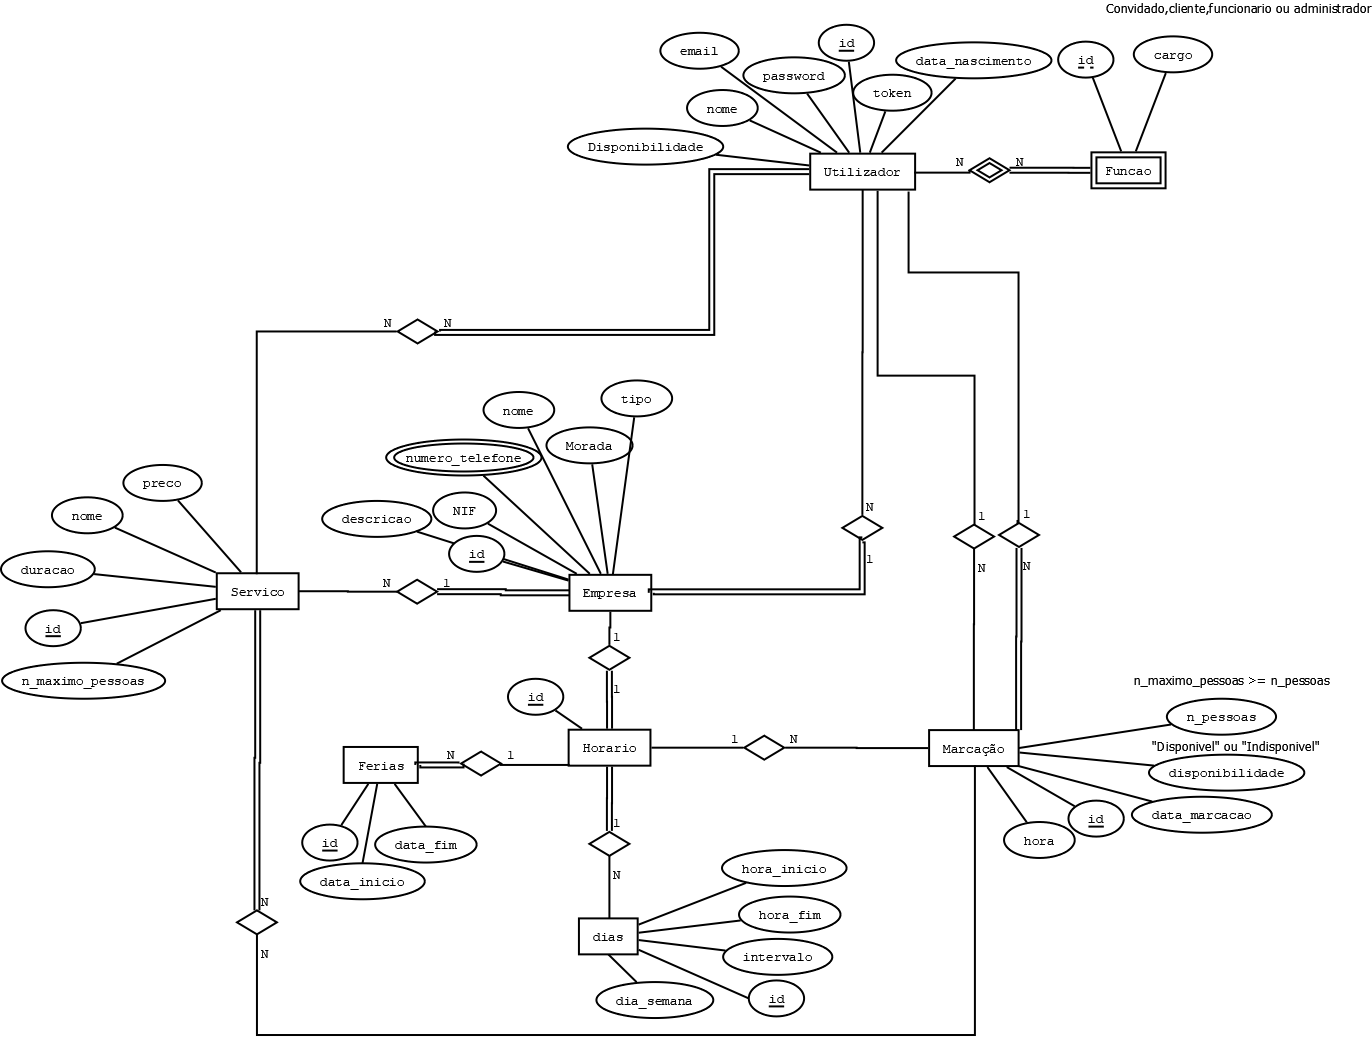
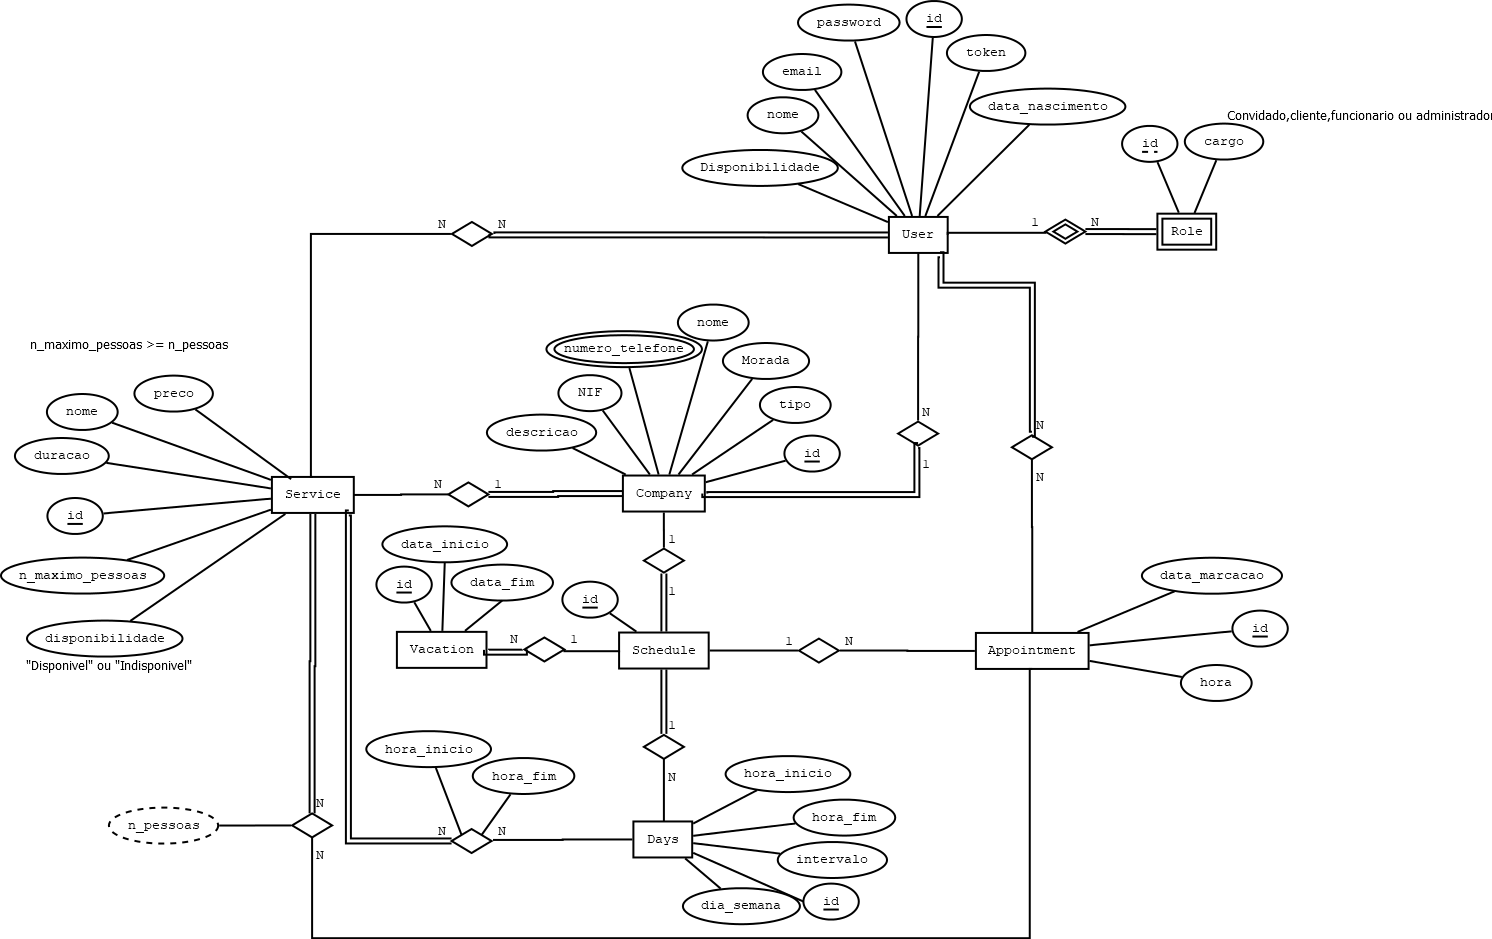
Changing data base logic and repositories

Changed region(s): [[0.0, 0.0, 1.0, 1.0], [0.0306, 0.3397, 0.0918, 0.3706], [0.1224, 0.3397, 0.1531, 0.3706]]

diff --git a/src/main/kotlin/backend/jvm/services/AppointmentServices.kt b/src/main/kotlin/backend/jvm/services/AppointmentServices.kt
@@ -67,16 +67,17 @@ class AppointmentServices {
         val getService = services.id?.let { servicesRepository.getServicesById(it) }
             ?: throw Exception("Service does not exists")
 
-        if(getAppointment.numberAppPeople == getService.numberMax){
+       /* if(getAppointment.numberAppPeople == getService.numberMax){
             return appointmentRepository.editAvailability(appointment.id!!,"unavailable")
-        }
+        }*/
         return appointment
     }
 
-    fun addAppointment(appointment: Appointment): Int {
-        val existingAppointment = appointmentRepository.findByAppDateAndAppHourAndSid(appointment.appDate!!, appointment.appHour, appointment.sid!!.id!!)
-        if (existingAppointment != null) {
-            appointment.numberAppPeople = existingAppointment.numberAppPeople!!.plus(1)
+    fun addAppointment(appointment: Appointment): Appointment {
+      //  val existingAppointment = appointmentRepository.findAllByAppDateAndAppHourAndSid(appointment.appDate!!, appointment.appHour, appointment.sid!!)?.lastOrNull()
+      /*  if (existingAppointment != null) {
+            println(existingAppointment.numberAppPeople)
+            appointment.numberAppPeople = existingAppointment.numberAppPeople?.plus(1)
         }
         val savedAppointment = appointmentRepository.save(appointment)
       /*  if (savedAppointment.number_app_people == max_number) {
@@ -85,13 +86,17 @@ class AppointmentServices {
         return savedAppointment.id!!
     }
 
+    fun getServices(id: Int){
+        appointmentRepository.getServices(id)
+    }
+
     fun deleteAppointment(id: Int): Boolean{
         appointmentRepository.deleteById(id)
         return true
     }
 
     fun increaseNumberOfPeopleApp(id:Int,maxNumber:Int){
-        require(id>0&&maxNumber>0)
+        require(id>0 && maxNumber>0)
         appointmentRepository.increaseAppointmentNumber(id,maxNumber)
     }
 

diff --git a/src/main/kotlin/backend/jvm/model/Appointment.kt b/src/main/kotlin/backend/jvm/model/Appointment.kt
@@ -10,11 +10,9 @@ import java.util.Date
  * Appointment entity
  *
  * @property id the appointment primary key
- * @property appNumberPeople represents the number of people scheduled for that appointment hour
  * @property appHour hour of the appointment
- * @property availability 'unavailable' if the max number of people have already scheduled
  * @property sid schedule associated with appointment
- * @property cid company associated with appointment
+ * @property uid company associated with appointment
  *
  */
 
@@ -28,19 +26,16 @@ class Appointment {
     @Column(name = "id")
     var id: Int? = null
 
-    @Column(name = "number_app_people", nullable = false)
-    var numberAppPeople: Int? = 0
-
-    @Column(name = "availability")
-    val availability : String
-
+   /* @Column(name = "number_app_people")
+    @GeneratedValue
+    var numberAppPeople: Int? = 1
+*/
     @Column(name = "app_hour")
     val appHour : Time
 
     @Column(name = "app_date")
     @Temporal(TemporalType.DATE)
     val appDate: Date?
-
 
     @ManyToOne
     @JoinColumn(name = "sid")  // nome da foreign key
@@ -55,19 +50,15 @@ class Appointment {
 
     constructor() {
         this.id = null
-        this.numberAppPeople = 0
         this.appHour = Time.valueOf("00:00:00")
-        this.availability = "unavailable"
         this.appDate = null
-        this.uid = null
         this.sid = null
+        this.uid = null
         this.services = null
     }
 
-    constructor(numberAppPeople: Int, appHour: Time, availability: String, appDate : Date, sid: Schedule, uid: User, services: List<Services>) {
-        this.numberAppPeople = numberAppPeople
+    constructor(appHour: Time, appDate : Date, sid: Schedule?, uid: User?, services: List<Services>?) {
         this.appHour = appHour
-        this.availability = availability
         this.appDate = appDate
         this.sid = sid
         this.uid = uid

diff --git a/src/main/kotlin/backend/jvm/controllers/AppointmentController.kt b/src/main/kotlin/backend/jvm/controllers/AppointmentController.kt
@@ -8,6 +8,7 @@ import org.springframework.web.bind.annotation.GetMapping
 import org.springframework.web.bind.annotation.PathVariable
 import org.springframework.web.bind.annotation.PostMapping
 import org.springframework.web.bind.annotation.PutMapping
+import org.springframework.web.bind.annotation.RequestBody
 import org.springframework.web.bind.annotation.RequestMapping
 import org.springframework.web.bind.annotation.RequestParam
 import org.springframework.web.bind.annotation.RestController
@@ -21,17 +22,17 @@ class AppointmentController {
     lateinit var appointmentServices: AppointmentServices
 
     @PostMapping
-    fun addAppointment(appointment: Appointment): Int{
+    fun addAppointment(@RequestBody appointment: Appointment): Appointment{
         return appointmentServices.addAppointment(appointment)
     }
 
     @DeleteMapping("/{id}")
-    fun deleteAppointment(id: Int): Boolean {
+    fun deleteAppointment(@PathVariable id: Int): Boolean {
         return appointmentServices.deleteAppointment(id)
     }
 
     @GetMapping("/{id}")
-    fun getAppointment(id: Int): Appointment{
+    fun getAppointment(@PathVariable id: Int): Appointment{
         return appointmentServices.getAppointment(id).get()
     }
 
@@ -46,7 +47,7 @@ class AppointmentController {
     }*/
 
     @PutMapping("/{id}/availability")
-    fun changeAvailability(id: Int, @RequestParam availability: String): Appointment {
+    fun changeAvailability(@PathVariable id: Int, @RequestParam availability: String): Appointment {
         return appointmentServices.editAvailability(id, availability)
     }
 

diff --git a/src/main/kotlin/backend/jvm/model/Services.kt b/src/main/kotlin/backend/jvm/model/Services.kt
@@ -9,7 +9,7 @@ import java.sql.Time
 class Services{
 
     @Id
-    @GeneratedValue(strategy = GenerationType.SEQUENCE)
+    @GeneratedValue(strategy = GenerationType.IDENTITY)
     @Column(name = "id")
     var id: Int? = null
 
@@ -36,11 +36,11 @@ class Services{
         joinColumns = [JoinColumn(name = "service_id")],
         inverseJoinColumns = [JoinColumn(name = "appointment_id")]
     )
-    val appointment: List<Appointment>
+    val appointment: List<Appointment>?
 
 
     @ManyToMany(mappedBy = "services")
-    val user: List<User>
+    val user: List<User>?
 
     constructor(){
         this.name = ""
@@ -52,7 +52,7 @@ class Services{
         this.appointment = listOf()
     }
 
-    constructor(name : String, duration: Time, numberMax: Int, price: Double, company: Company, user: List<User>, appointment: List<Appointment>){
+    constructor(name : String, duration: Time, numberMax: Int, price: Double, company: Company, user: List<User>, appointment: List<Appointment>,days: List<Day> ){
         this.name = name
         this.duration = duration
         this.numberMax = numberMax
@@ -60,5 +60,6 @@ class Services{
         this.cid = company
         this.user = user
         this.appointment = appointment
+        this.day = days
     }
 }

diff --git a/src/main/kotlin/backend/jvm/repository/AppointmentRepository.kt b/src/main/kotlin/backend/jvm/repository/AppointmentRepository.kt
@@ -12,8 +12,8 @@ interface AppointmentRepository: JpaRepository<Appointment, Int>{
     /*
     fun findAllByCid (cid: Client) : List<Appointment>
     fun findAllByEid (eid: Employee) : List<Appointment>
-    */
 
+    */
     fun findAllBySid (sid: Schedule) : List<Appointment>
 
     fun findAllByAppHourAndUidAndAppDate (appHour: Time, user: User, appDate: Date): Appointment
@@ -26,6 +26,9 @@ interface AppointmentRepository: JpaRepository<Appointment, Int>{
     fun getCompany(@Param("id") id: Int): Company?
 */
 
+    @Query(value = "select service_id from service_appointment where appointment_id=:id", nativeQuery = true)
+    fun getServices(@Param("id") id:Int):List<Services>
+
     @Query(value =  "update appointment set number_app_people = :numberAppPeople where id = :id", nativeQuery = true)
     fun editNumberAppPeople(@Param("id") id: Int, @Param("numberAppPeople") numberAppPeople: Int): Appointment
 
@@ -37,6 +40,5 @@ interface AppointmentRepository: JpaRepository<Appointment, Int>{
 
     @Query(value = "from appointment a where a.availability='available' and a.date=:date", nativeQuery = true)
     fun getAvailableAppointmentByDate(@Param("date") date: Date): Appointment
-
 
 }

diff --git a/src/main/kotlin/backend/jvm/repository/UserRepository.kt b/src/main/kotlin/backend/jvm/repository/UserRepository.kt
@@ -10,13 +10,13 @@ import org.springframework.data.repository.query.Param
 
 interface UserRepository: JpaRepository<User, Int> {
 
-    // fun getUsersByCompId (compId: Company): User
+     fun getUsersByCompId (compId: Company): User
 
-     //fun getUsersByServices (service: List<Services>): List<User>
+    /* fun getUsersByServices (service: List<Services>): List<User>
 
-   //  fun getUsersByAppointment (appointment: List<Appointment>): List<User>
+     fun getUsersByAppointment (appointment: List<Appointment>): List<User>*/
 
-  //   fun getUsersByEmail (email: String): User
+     fun getUsersByEmail (email: String): User
 
      @Query(value = "select name from role r where r.uid = :id", nativeQuery = true)
      fun getRole (@Param("id") id: Int): String

diff --git a/src/main/kotlin/backend/jvm/services/ServServices.kt b/src/main/kotlin/backend/jvm/services/ServServices.kt
@@ -2,7 +2,6 @@ package backend.jvm.services
 
 
 import backend.jvm.model.Services
-import backend.jvm.repository.ScheduleRepository
 import backend.jvm.repository.ServiceRepository
 import org.springframework.beans.factory.annotation.Autowired
 import org.springframework.stereotype.Service
@@ -10,6 +9,7 @@ import java.sql.Time
 
 @Service
 class ServServices {
+
     @Autowired
     lateinit var serviceRepository: ServiceRepository
 
@@ -22,7 +22,8 @@ class ServServices {
         return serviceRepository.findById(id).get()
     }
 
-    /*fun findByEmployee(employee: List<Employee>):Services{
+    /*
+    fun findByEmployee(employee: List<Employee>):Services{
         return serviceRepository.findAllByEmployee(employee)
     }*/
 

diff --git a/src/main/kotlin/backend/jvm/services/ScheduleServices.kt b/src/main/kotlin/backend/jvm/services/ScheduleServices.kt
@@ -2,7 +2,6 @@ package backend.jvm.services
 
 import backend.jvm.model.Schedule
 import backend.jvm.model.Services
-import backend.jvm.model.User
 import backend.jvm.repository.ScheduleRepository
 import org.springframework.beans.factory.annotation.Autowired
 import java.util.*
@@ -46,7 +45,7 @@ class ScheduleServices {
     }
 
     fun getServices(idSchedule: Int,idService: Int): List<Services>{
-        return scheduleRepository.getAllServices(idSchedule,idService)
+       TODO()// return scheduleRepository.getAllServices(idSchedule,idService)
     }
 
     /*  fun getAllClientSchedule(id:Int,date: String,hour: String): List<User>{

diff --git a/src/main/kotlin/backend/jvm/repository/ScheduleRepository.kt b/src/main/kotlin/backend/jvm/repository/ScheduleRepository.kt
@@ -11,10 +11,10 @@ interface ScheduleRepository: JpaRepository<Schedule, Int> {
          * @param idSchedule
          * @param idService
          * @return List<Service>
-         */
+
         @Query(value = "from service c inner join service_appointment p on p.service_id = :idService inner join appointment a on a.sid = :idSchedule ", nativeQuery = true)
         fun getAllServices(@Param("idSchedule") idSchedule: Int, @Param("idService") idService: Int): List<Services>
-
+        */
 
         /**
          * gets all clients scheduled for that hour and date

diff --git a/src/main/kotlin/backend/jvm/repository/ServiceRepository.kt b/src/main/kotlin/backend/jvm/repository/ServiceRepository.kt
@@ -11,6 +11,10 @@ import java.sql.Time
 interface ServiceRepository : JpaRepository<Services, Int> {
 
 
+    @Query(value = "select count(id) from service_appointment where service_id=:serviceId and appointment_id=:appointmentId ", nativeQuery = true)
+    fun countAppointments(@Param("serviceId") serviceId: Int, @Param("appointmentId") appointmentId: Int)
+
+
    // fun findAllByEmployee(employee: List<Employee>):Services
     @Query(value ="select * from services s " +
             "inner join employee_service e on e.service_id = :idService " +

diff --git a/src/main/kotlin/backend/jvm/utils/errorHandling/ErrorHandling.kt b/src/main/kotlin/backend/jvm/utils/errorHandling/ErrorHandling.kt
@@ -6,7 +6,7 @@ import org.springframework.web.bind.annotation.ControllerAdvice
 import org.springframework.web.bind.annotation.ExceptionHandler
 import org.springframework.web.bind.annotation.ResponseStatus
 import org.springframework.web.servlet.ModelAndView
-
+/*
 @ControllerAdvice
 internal class ErrorHandling {
     @ExceptionHandler(value = [Exception::class])
@@ -24,4 +24,4 @@ internal class ErrorHandling {
     companion object {
         const val DEFAULT_ERROR_VIEW = "error"
     }
-}
+}*/

diff --git a/src/main/kotlin/backend/jvm/model/User.kt b/src/main/kotlin/backend/jvm/model/User.kt
@@ -67,7 +67,7 @@ class User {
 
         @ManyToMany
         @JoinTable(
-                name = "app_user",
+                name = "appointment_user",
                 joinColumns = [JoinColumn(name = "user_id")],
                 inverseJoinColumns = [JoinColumn(name = "app_id")]
         )
